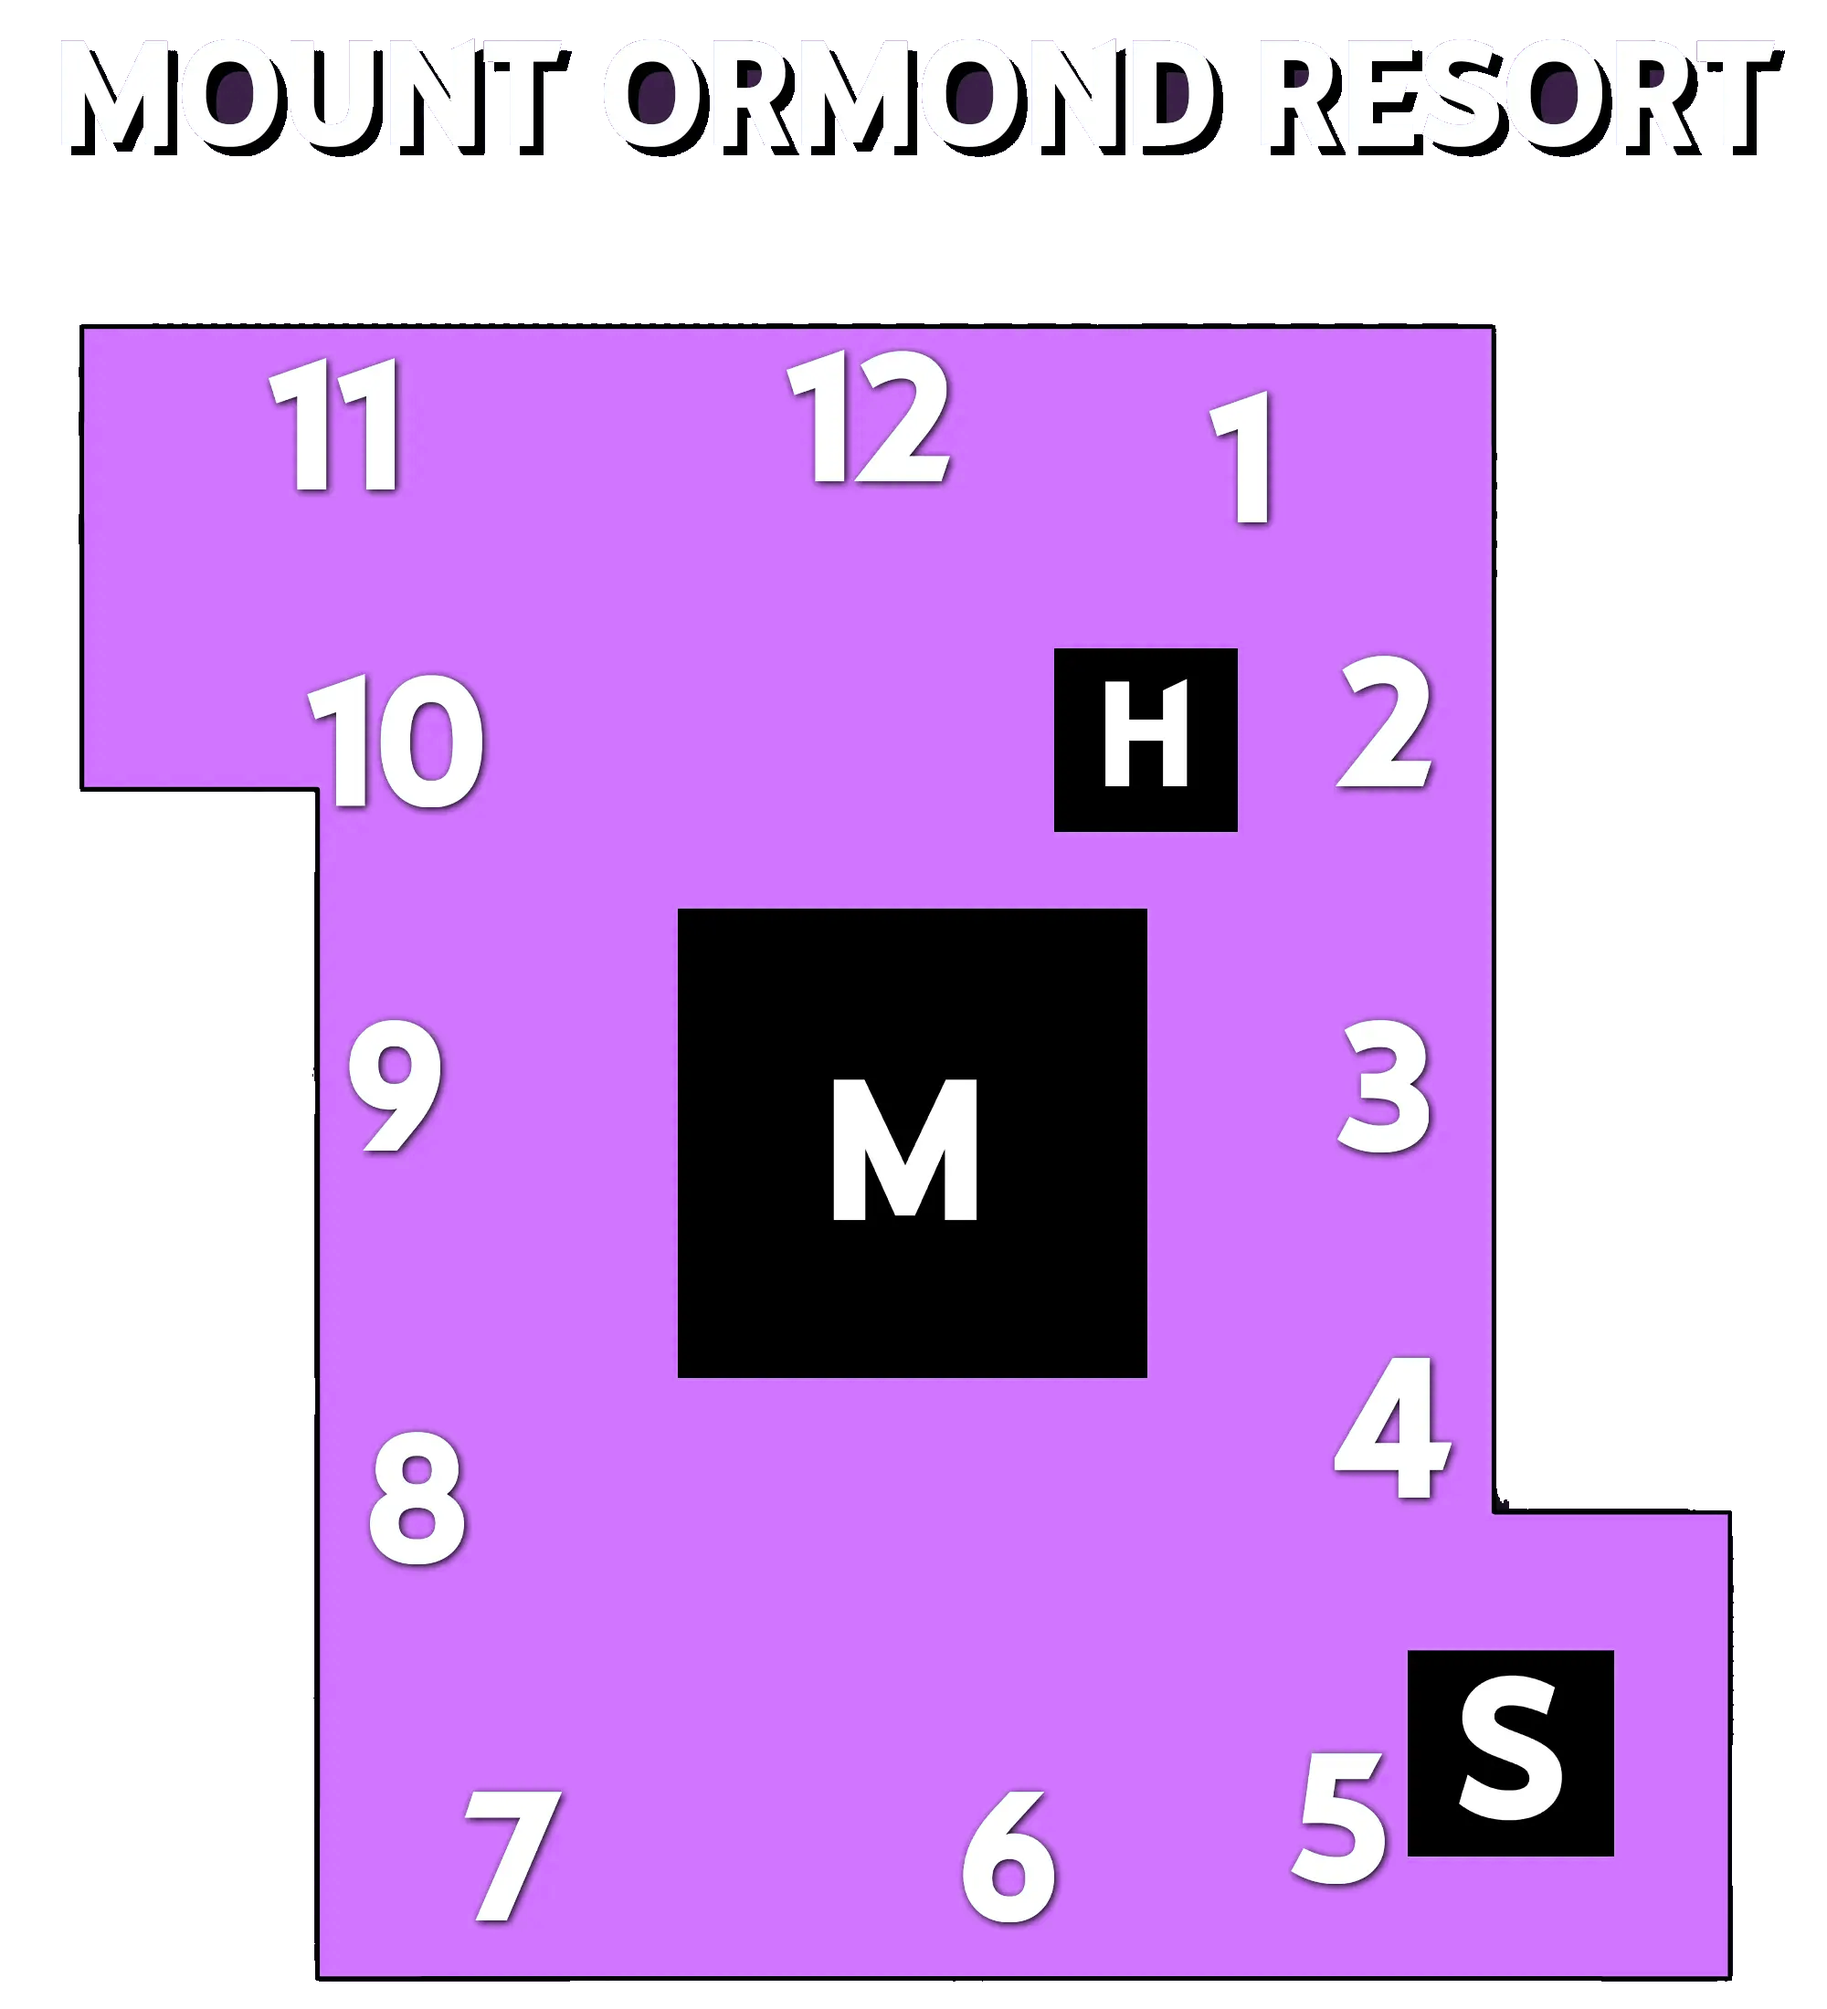
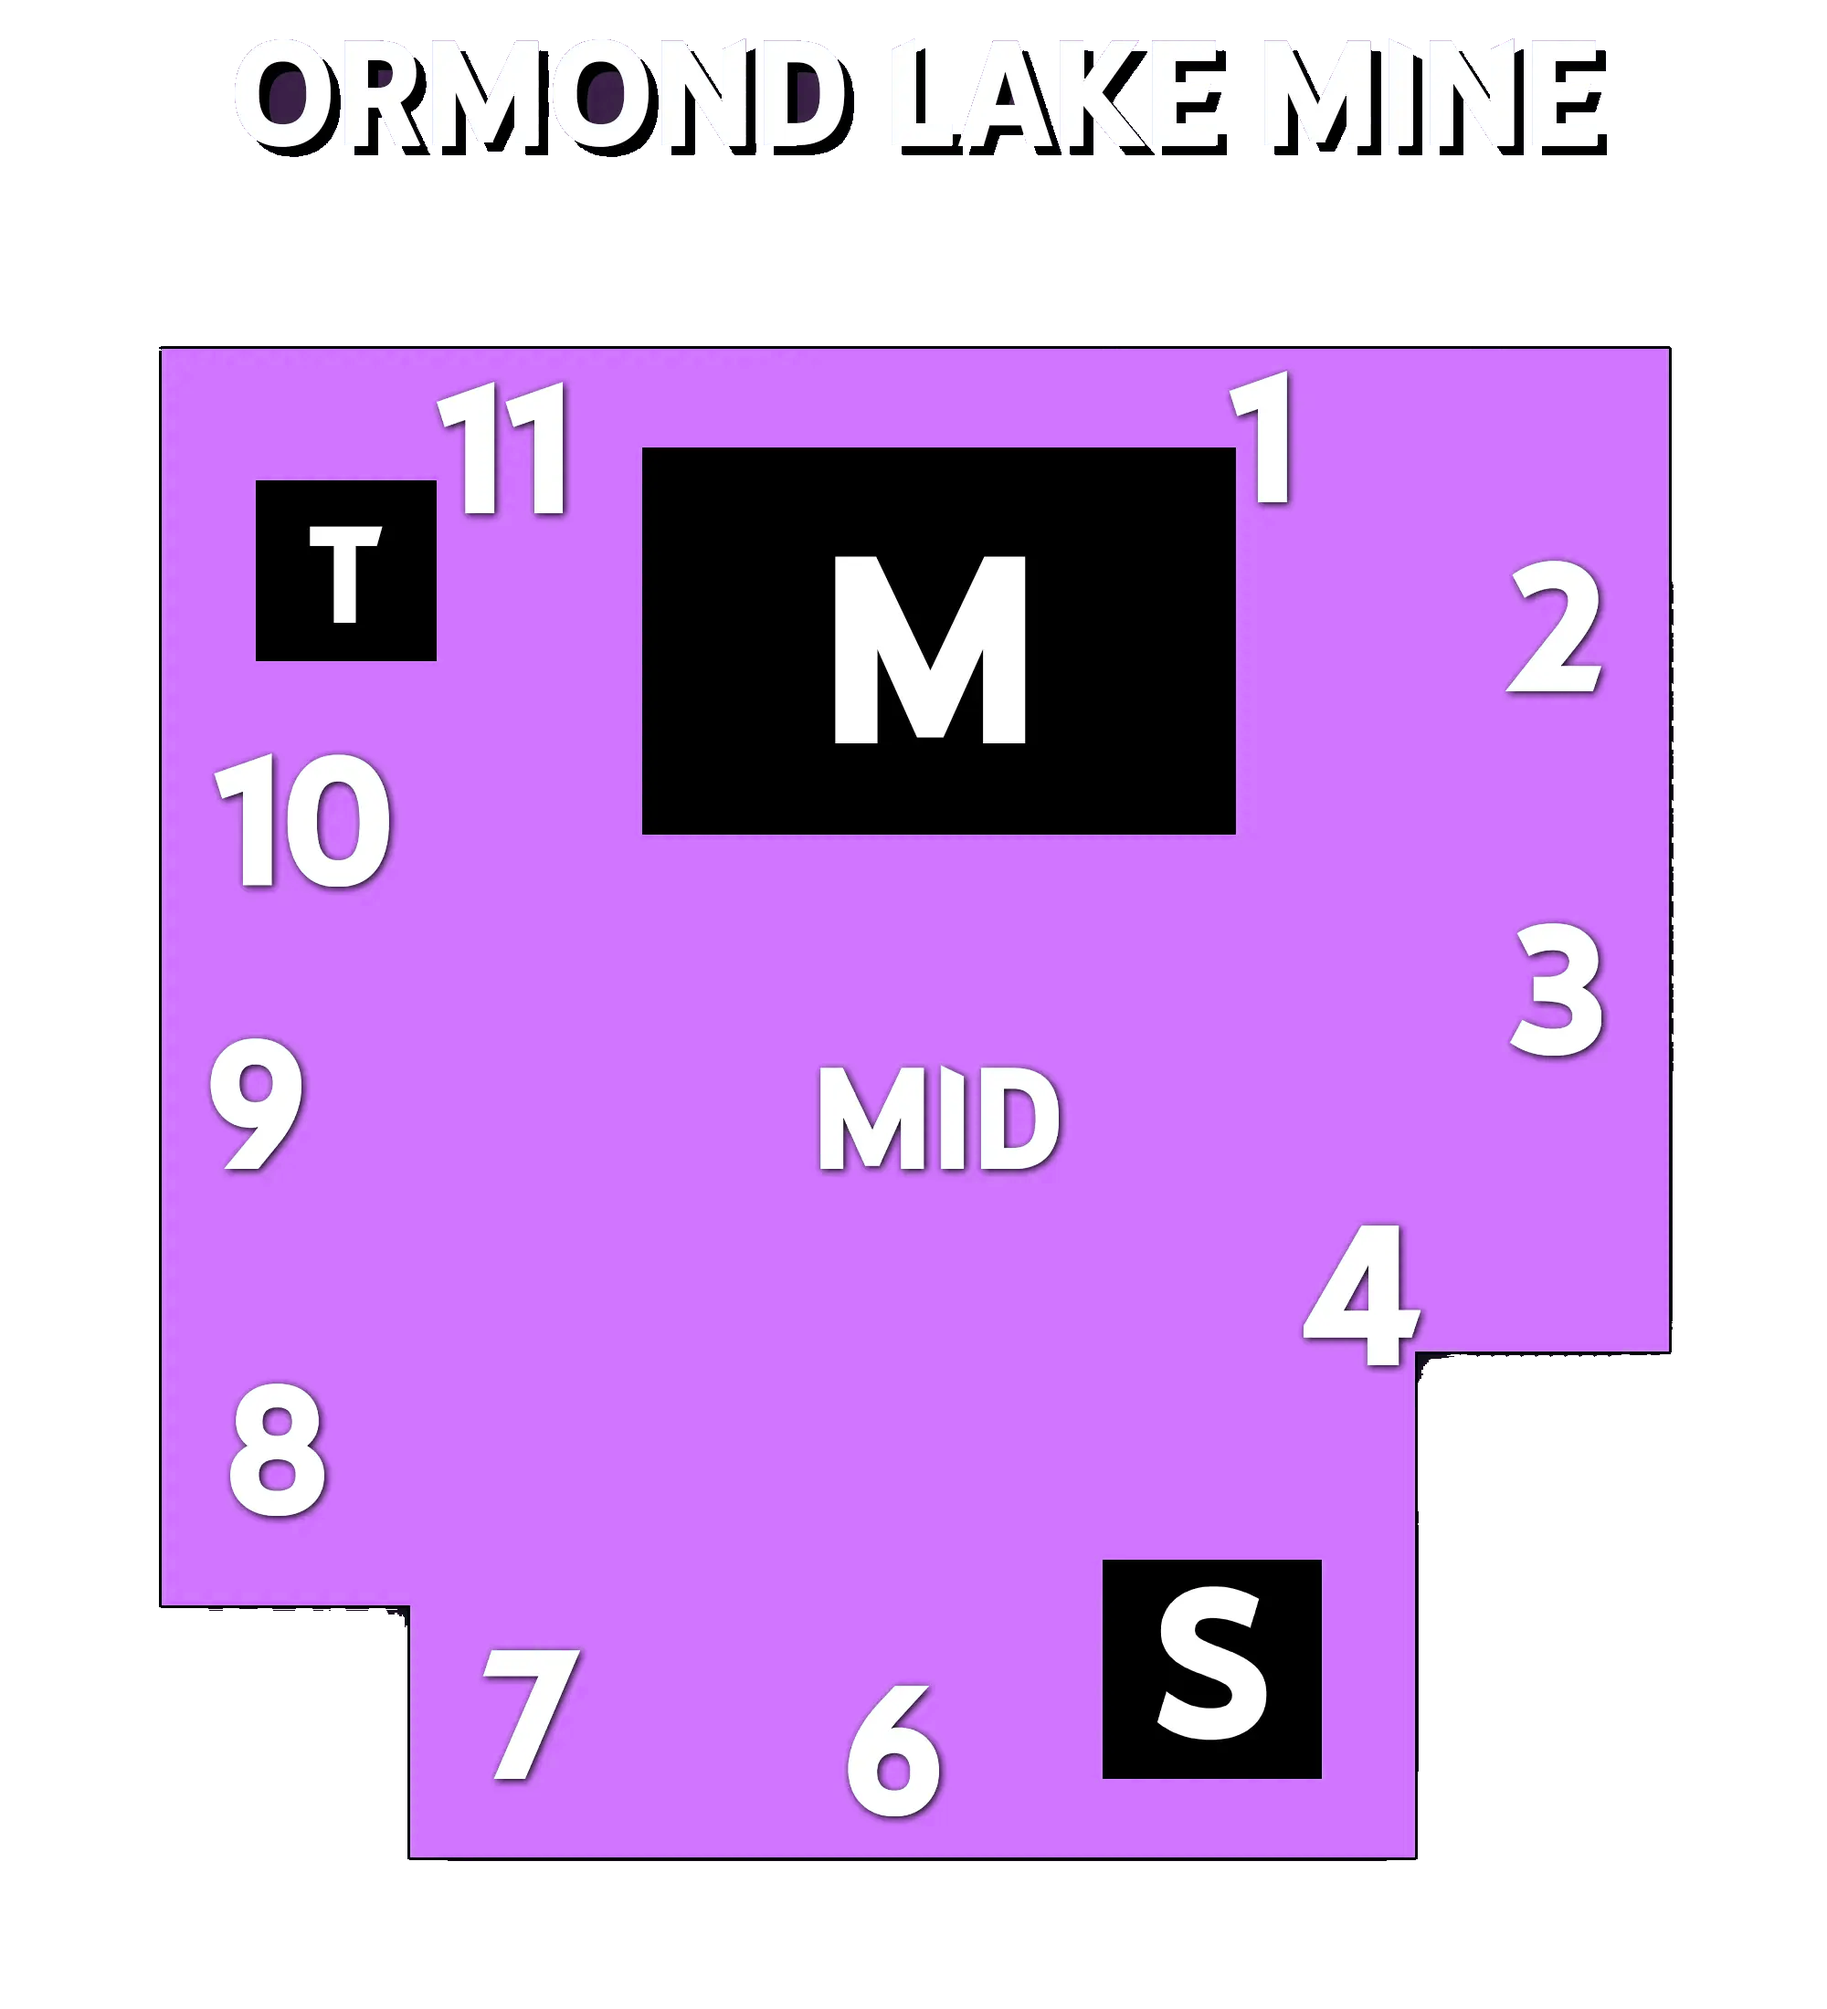
Fix Ormond Resort / Lake Mine swap and align bandeau map names with map headers

diff --git a/app.html b/app.html
@@ -1108,14 +1108,14 @@
 
     // Bi-directional dictionary of 44 official maps
     const MAP_PAIRS = [
-      { fr: "Abattoir Putride", en: "Rancid Abattoir", fileFr: "Abattoir Putride.png", fileEn: "Rancid Abattoir.png" },
-      { fr: "Aile Est du Commissariat de Raccoon City", en: "Raccoon City Police Station East Wing", fileFr: "Aile_Est_du_Commissariat_de_Raccoon_City.png", fileEn: "Raccoon City Police Station East Wing.png" },
-      { fr: "Aile Ouest du Commissariat de Raccoon City", en: "Raccoon City Police Station West Wing", fileFr: "Aile_Ouest_du_Commissariat_de_Raccoon_City.png", fileEn: "Raccoon City Police Station West Wing.png" },
+      { fr: "Abattoir Putride", en: "Rancid Abbatoir", aliases: "Rancid Abattoir", fileFr: "Abattoir Putride.png", fileEn: "Rancid Abattoir.png" },
+      { fr: "Aile Est du Commissariat de Raccoon City", en: "Raccoon City Police Station East Wing", aliases: "RPD East", fileFr: "Aile_Est_du_Commissariat_de_Raccoon_City.png", fileEn: "Raccoon City Police Station East Wing.png" },
+      { fr: "Aile Ouest du Commissariat de Raccoon City", en: "RPD West", aliases: "Raccoon City Police Station West Wing", fileFr: "Aile_Ouest_du_Commissariat_de_Raccoon_City.png", fileEn: "Raccoon City Police Station West Wing.png" },
       { fr: "Aire de Corbeaux", en: "Eyrie of Crows", fileFr: "Aire de Corbeaux.png", fileEn: "Eyrie of Crows.png" },
-      { fr: "Atelier Misérable", en: "Misery's Workshop", fileFr: "Atelier Misérable.png", fileEn: "Misery's Workshop.png" },
+      { fr: "Atelier Misérable", en: "Wretched Shop", aliases: "Misery's Workshop", fileFr: "Atelier Misérable.png", fileEn: "Misery's Workshop.png" },
       { fr: "Cabane du Sang", en: "Blood Lodge", fileFr: "Cabane du Sang.png", fileEn: "Blood Lodge.png" },
       { fr: "Cellier Sinistre", en: "Grim Pantry", fileFr: "Cellier Sinistre.png", fileEn: "Grim Pantry.png" },
-      { fr: "Centre de Traitement", en: "Treatment Theatre", fileFr: "Centre de Traitement.png", fileEn: "Treatment Theatre.png" },
+      { fr: "Centre de Traitement", en: "Treatment Theater", aliases: "Treatment Theatre", fileFr: "Centre de Traitement.png", fileEn: "Treatment Theatre.png" },
       { fr: "Champs Pourris", en: "Rotten Fields", fileFr: "Champs Pourris.png", fileEn: "Rotten Fields.png" },
       { fr: "Chapelle du Père Campbell", en: "Father Campbell's Chapel", fileFr: "Chapelle du Père Campbell.png", fileEn: "Father Campbell's Chapel.png" },
       { fr: "Dernière Demeure d'Azarov", en: "Azarov's Resting Place", fileFr: "Dernière Demeure d'Azarov.png", fileEn: "Azarov's Resting Place.png" },
@@ -1123,16 +1123,16 @@
       { fr: "Entrepôt Grondant", en: "Groaning Storehouse", fileFr: "Entrepôt Grondant.png", fileEn: "Groaning Storehouse.png" },
       { fr: "Fonderie de Souffrance", en: "Ironworks of Misery", fileFr: "Fonderie de Souffrance.png", fileEn: "Ironworks of Misery.png" },
       { fr: "Forêt Profonde", en: "Shelter Woods", fileFr: "Forêt Profonde.png", fileEn: "Shelter Woods.png" },
-      { fr: "Freddy Fazbear's Pizza", en: "Freddy Fazbear's Pizza", fileFr: "Freddy Fazbear's Pizza.png", fileEn: "Freddy Fazbear's Pizza.png" },
-      { fr: "Gas Haven", en: "Gas Haven", fileFr: "Gas Haven.png", fileEn: "Gas Haven.png" },
-      { fr: "Illusion du Farceur", en: "Trickster's Illusion", fileFr: "Illusion du Farceur.png", fileEn: "Trickster's Illusion.png" },
+      { fr: "F. Fazbear's Pizza", en: "Freddy Fazbear's Pizza", aliases: "Freddy Fazbear's Pizza", fileFr: "Freddy Fazbear's Pizza.png", fileEn: "Freddy Fazbear's Pizza.png" },
+      { fr: "Gas Heaven", en: "Gas Heaven", aliases: "Gas Haven", fileFr: "Gas Haven.png", fileEn: "Gas Haven.png" },
+      { fr: "Illusion du Farceur", en: "Trickster's Delusion", aliases: "Trickster's Illusion", fileFr: "Illusion du Farceur.png", fileEn: "Trickster's Illusion.png" },
       { fr: "Jardin de la Joie", en: "Garden of Joy", fileFr: "Jardin de la Joie.png", fileEn: "Garden of Joy.png" },
       { fr: "La Ferme Thompson", en: "Thompson House", fileFr: "La Ferme Thompson.png", fileEn: "Thompson House.png" },
       { fr: "La Maison Maternelle", en: "Mother's Dwelling", fileFr: "La Maison Maternelle.png", fileEn: "Mother's Dwelling.png" },
       { fr: "La Place Dévastée", en: "The Shattered Square", fileFr: "La Place Dévastée.png", fileEn: "The Shattered Square.png" },
       { fr: "Le Complexe Souterrain", en: "The Underground Complex", fileFr: "Le Complexe Souterrain.png", fileEn: "The Underground Complex.png" },
       { fr: "Le Jeu", en: "The Game", fileFr: "Le Jeu.png", fileEn: "The Game.png" },
-      { fr: "Le Pâle Rose", en: "The Pale Rose", fileFr: "Le Pâle Rose.png", fileEn: "The Pale Rose.png" },
+      { fr: "Le Pâle Rose", en: "Pale Rose", aliases: "The Pale Rose", fileFr: "Le Pâle Rose.png", fileEn: "The Pale Rose.png" },
       { fr: "Le Temple de Purgation", en: "Temple of Purgation", fileFr: "Le Temple de Purgation.png", fileEn: "Temple of Purgation.png" },
       { fr: "Mine du Lac d'Ormond", en: "Ormond Lake Mine", fileFr: "Mine du Lac d'Ormond.png", fileEn: "Ormond Lake Mine.png" },
       { fr: "Place de Greenville", en: "Greenville Square", fileFr: "Place de Greenville.png", fileEn: "Greenville Square.png" },
@@ -1146,9 +1146,9 @@
       { fr: "Sanctuaire du Courroux", en: "Sanctum of Wrath", fileFr: "Sanctuaire du Courroux.png", fileEn: "Sanctum of Wrath.png" },
       { fr: "Site d'Atterrissage de Toba", en: "Toba Landing", fileFr: "Site d'Atterrissage de Toba.png", fileEn: "Toba Landing.png" },
       { fr: "Station du Mont Ormond", en: "Mount Ormond Resort", fileFr: "Station du Mont Ormond.png", fileEn: "Mount Ormond Resort.png" },
-      { fr: "Terrain de la Casse", en: "Wrecker's Yard", fileFr: "Terrain de la Casse.png", fileEn: "Wrecker's Yard.png" },
+      { fr: "Terrain de la Casse", en: "Wreckers Yard", aliases: "Wrecker's Yard", fileFr: "Terrain de la Casse.png", fileEn: "Wrecker's Yard.png" },
       { fr: "Vallon des Tourments", en: "Torment Creek", fileFr: "Vallon des Tourments.png", fileEn: "Torment Creek.png" },
-      { fr: "École Maternelle de Badham", en: "Badham Preschool", fileFr: "École Maternelle de Badham.png", fileEn: "Badham Preschool.png" },
+      { fr: "École Maternelle de Badham", en: "Badham Preschool 1", aliases: "Badham Preschool", fileFr: "École Maternelle de Badham.png", fileEn: "Badham Preschool.png" },
       { fr: "École Primaire Midwich", en: "Midwich Elementary School", fileFr: "ecole_primaire_midwich.gif", fileEn: "Midwich Elementary School.gif" },
       { fr: "Épave du Nostromo", en: "Nostromo Wreckage", fileFr: "Épave du Nostromo.png", fileEn: "Nostromo Wreckage.png" },
       { fr: "Étable en Ruine", en: "Fractured Cowshed", fileFr: "Étable en Ruine.png", fileEn: "Fractured Cowshed.png" }
@@ -1173,7 +1173,7 @@
       creator: "Exprimes",
       src: "maps/Exprimes/" + p.fileFr,
       fallbackSrc: "maps/Maps_FR/" + p.fileFr,
-      altName: p.en
+      altName: p.en + " " + (p.aliases || "")
     }));
 
     const DEFAULT_MAPS_EN = MAP_PAIRS.map(p => ({
@@ -1181,7 +1181,7 @@
       creator: "Exprimes",
       src: "maps/Maps_EN/" + p.fileEn,
       fallbackSrc: "maps/Maps_EN/" + p.fileEn,
-      altName: p.fr
+      altName: p.fr + " " + (p.aliases || "")
     }));
 
     // Langue actuelle mémorisée
@@ -1962,9 +1962,10 @@
       let pairMatch = MAP_PAIRS.find(p => {
         const cFr = cleanStr(p.fr);
         const cEn = cleanStr(p.en);
-        return cFr === cleanTarget || cEn === cleanTarget ||
-               cFr.includes(cleanTarget) || cEn.includes(cleanTarget) ||
-               cleanTarget.includes(cFr) || cleanTarget.includes(cEn);
+        const cAl = cleanStr(p.aliases || "");
+        return cFr === cleanTarget || cEn === cleanTarget || (cAl && cAl === cleanTarget) ||
+               cFr.includes(cleanTarget) || cEn.includes(cleanTarget) || (cAl && cAl.includes(cleanTarget)) ||
+               cleanTarget.includes(cFr) || cleanTarget.includes(cEn) || (cAl && cleanTarget.includes(cAl));
       });
 
       let targetMapObj = null;
